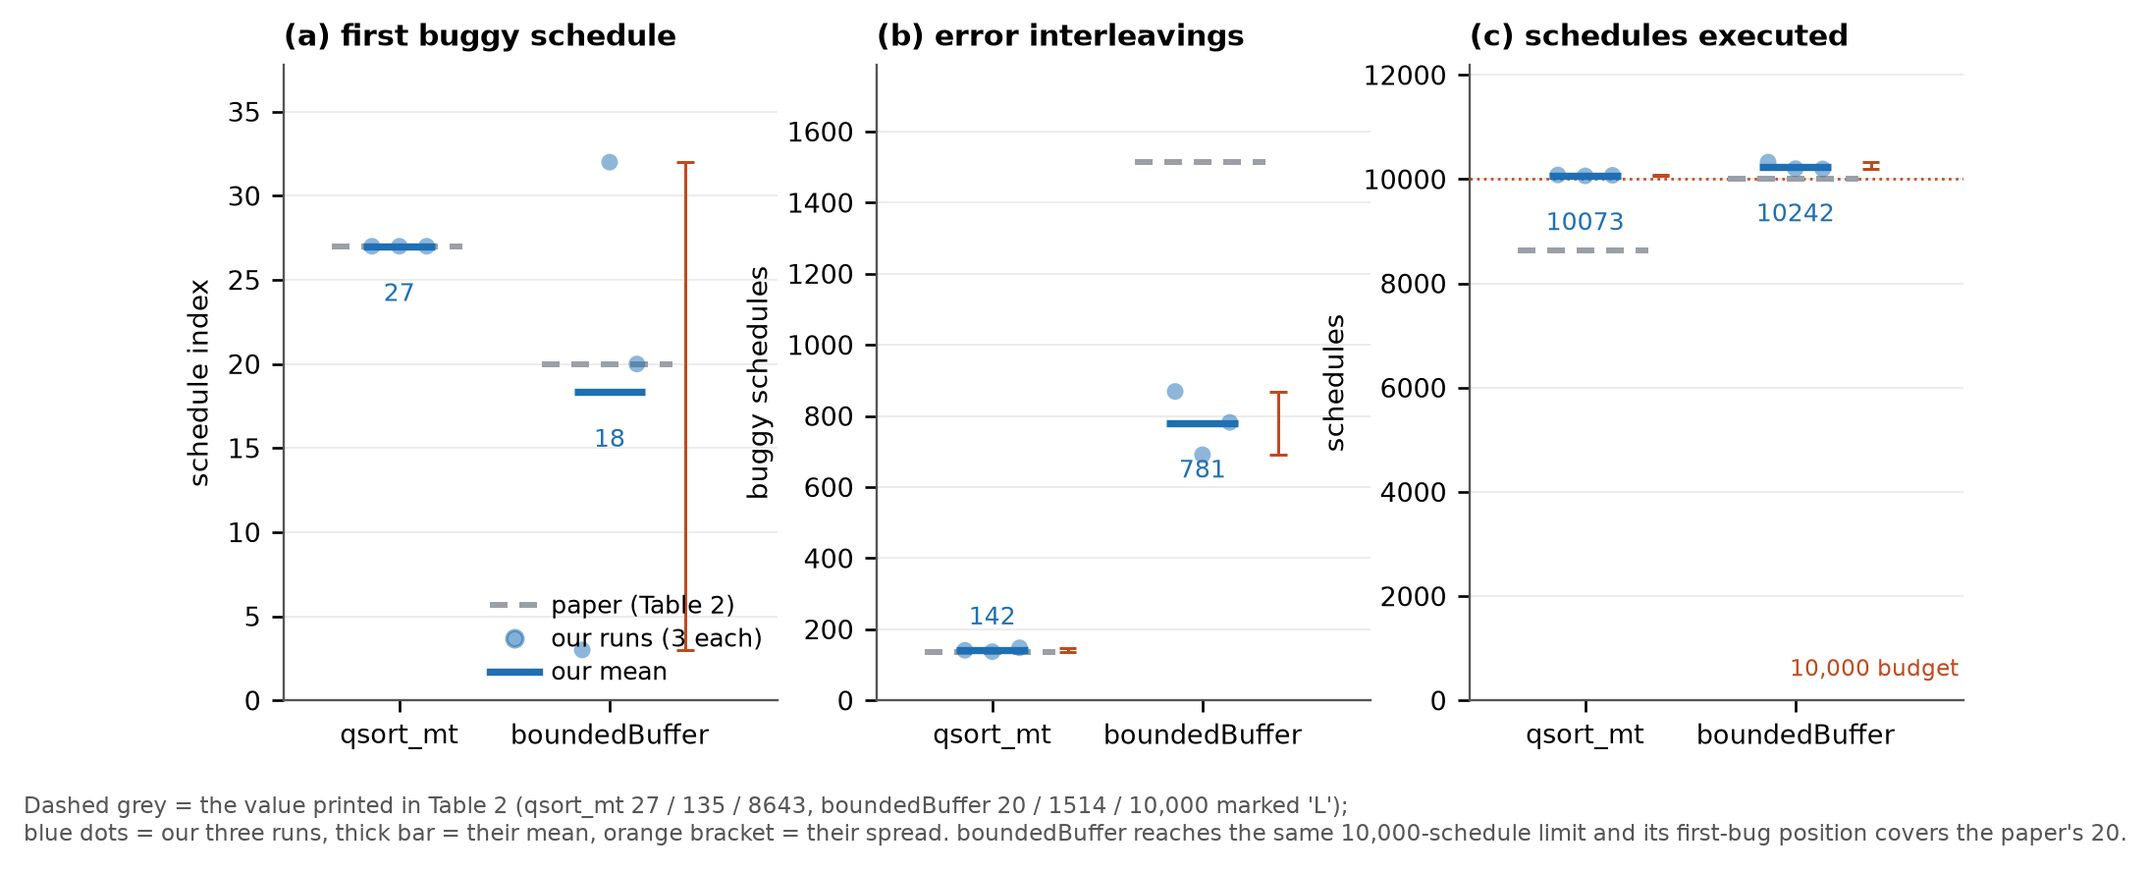
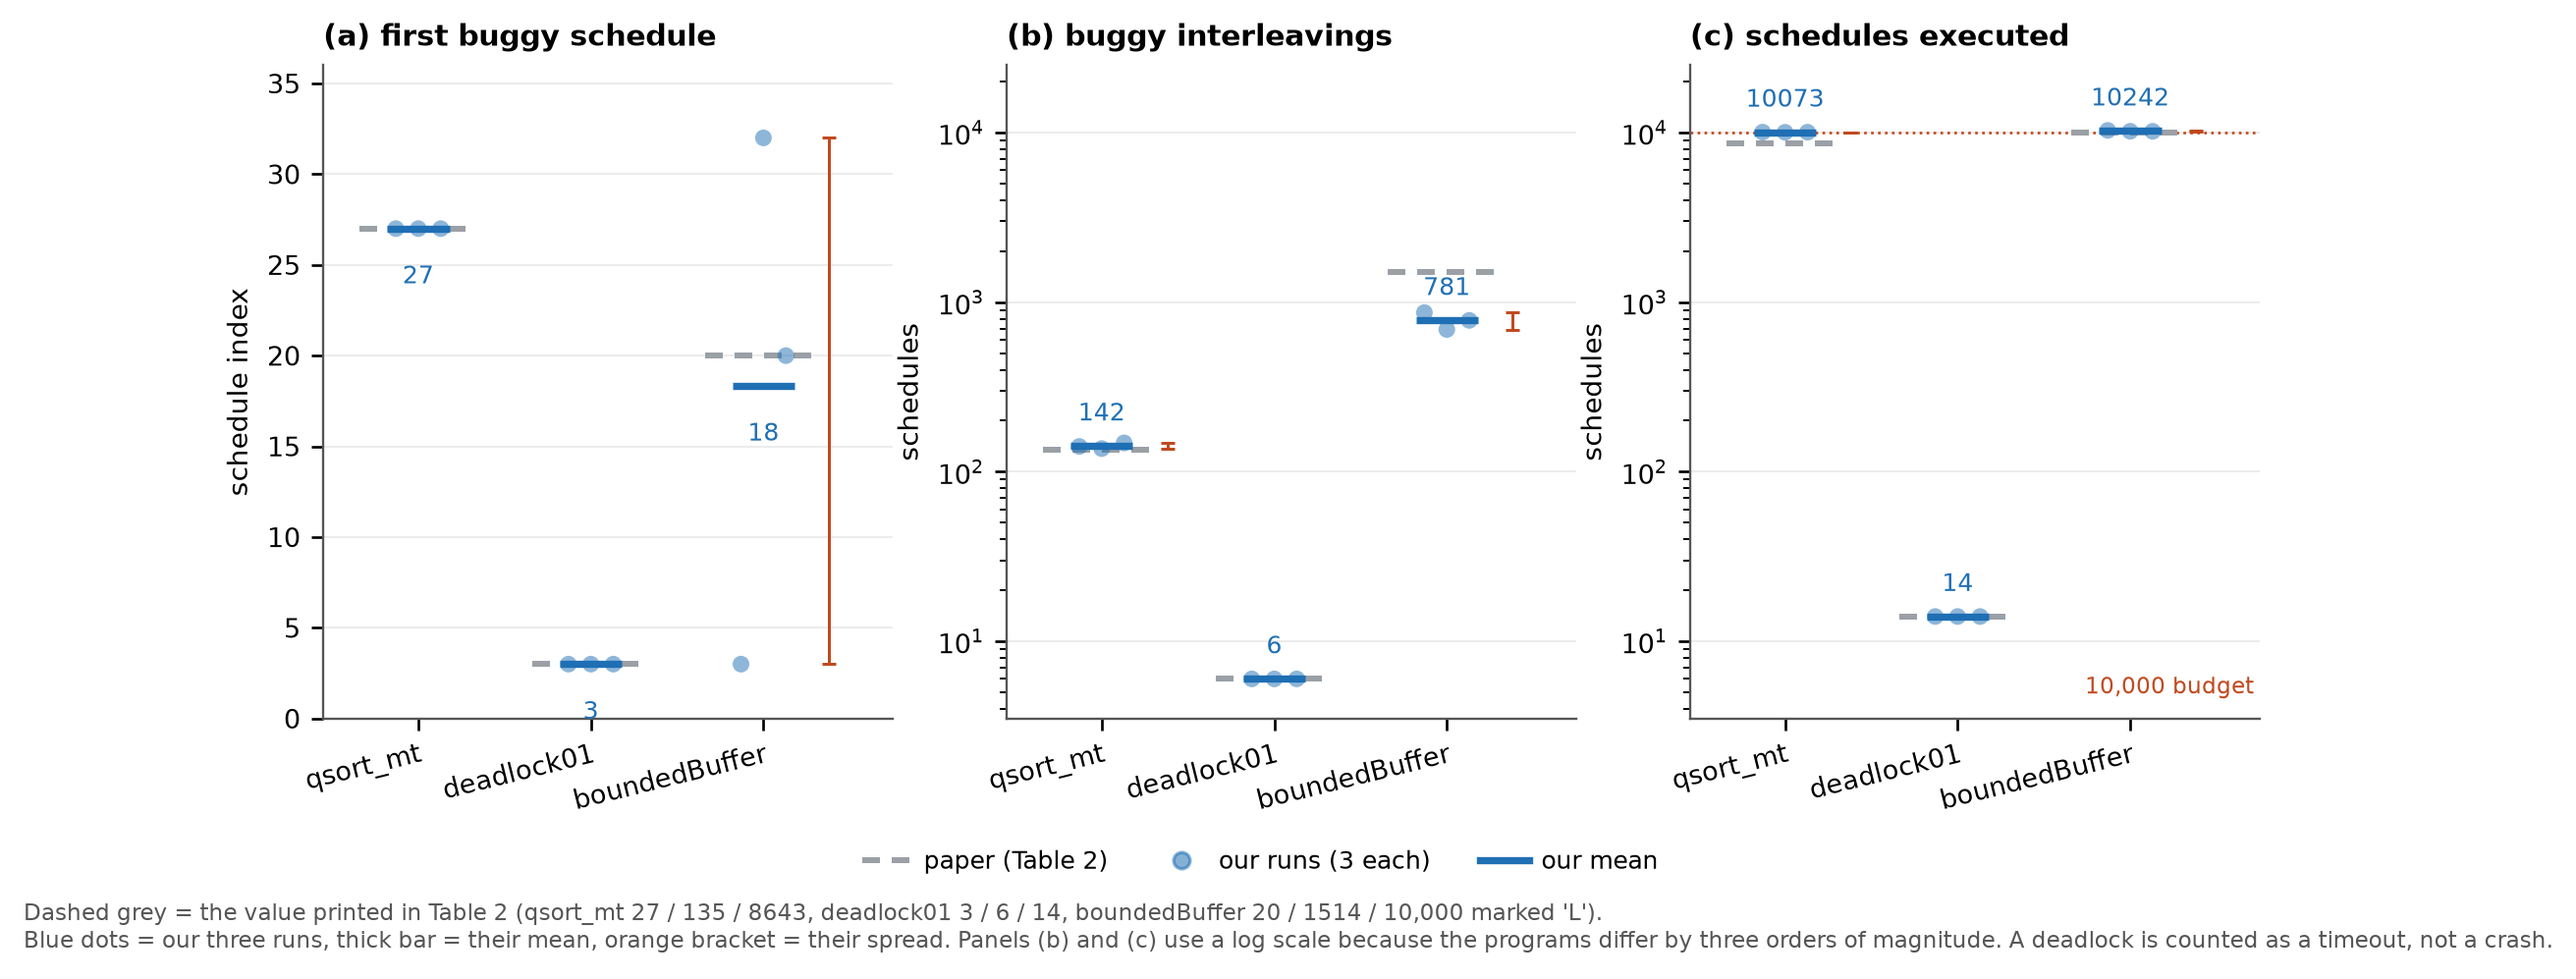
1240007426 田一麟 deadlock01部分readme和数据修改

diff --git a/sctinspect.md b/sctinspect.md
@@ -1,24 +1,34 @@
-Claim 3 — Period finds the assertion bugs in the SCTBench Inspect programs (Table 2)
+Claim 3 — Period detects the bugs in a sample of SCTBench programs (Table 2)
 
 Table 2 in the original paper: ![alt text](logs/claim2log/table2.png)
 
-Verdict: supported for Inspect.qsort_mt, partially supported for
+Verdict: supported for Inspect.qsort_mt and CS.deadlock01, partially supported for
 Inspect.boundedBuffer.
 
-Setup. Both programs come from the SCTBench group `Inspect` shipped inside the
-image (`evaluation/Inspect_benchmarks/`). We used the paper's setting for this
-benchmark, `-d 3`, with the 10,000-schedule budget (`-f 10000`), three runs per
-program, in the same container and on the same 8 vCPU / 16 GB testbed as the CVE
-experiment.
+Setup. Three programs taken from two families of the SCTBench set shipped inside
+the image: `Inspect_benchmarks/` (qsort_mt, boundedBuffer) and `CS/` (deadlock01).
+We used the paper's setting for this benchmark, `-d 3`, with the 10,000-schedule
+budget (`-f 10000`), three runs per program, in the same container and on the same
+8 vCPU / 16 GB testbed as the CVE experiment. Deadlocks are reported by PERIOD as
+timeouts rather than crashes, so for `deadlock01` the "buggy schedules" column is
+the number of timeout interleavings.
 
 | Program | Paper: first | Paper: #sched | Paper: #buggy | Ours: first | Ours: #sched | Ours: #buggy |
 |---|---|---|---|---|---|---|
 | Inspect.qsort_mt | 27 | 8643 | 135 | 27 / 27 / 27 | 10081 / 10064 / 10075 | 141 / 137 / 148 |
 | Inspect.boundedBuffer | 20 | 10,000 (L) | 1514 | 3 / 32 / 20 | 10327 / 10202 / 10197 | 869 / 691 / 782 |
+| CS.deadlock01 | 3 | 14 | 6 | 3 / 3 / 3 | 14 / 14 / 14 | 6 / 6 / 6 |
 
 Quantified gap.
 
 ![alt text](logs/claim2log/sctinspect_compare.png)
+
+deadlock01 is reproduced exactly. The program has two threads and three key
+points each, so the whole schedule space is 14 interleavings; all three runs walk
+the same 14 schedules in the same order, time out on the same six of them, and
+report their first deadlock on schedule 3. The three transcripts differ only in
+the timing values and the output-directory name; each run takes about 30 seconds,
+almost all of it the six 5-second timeouts.
 
 qsort_mt reproduces the paper's detection point exactly: in all three runs the
 first `[Error Found]` line appears on schedule 27, which is the number printed in
@@ -26,7 +36,7 @@ Table 2, and the run ends after roughly 10,000 schedules because it reaches our
 budget rather than exhausting the space (paper: 8643). The number of buggy
 interleavings is 142 on average against 135, a 5% difference.
 
-boundedBuffer is the noisier of the two. Its first-bug position moves between 3
+boundedBuffer is the noisiest of the three. Its first-bug position moves between 3
 and 32 across three runs and covers the paper's 20, with one run hitting 20
 exactly. The schedule count reaches the same 10,000 limit the paper marks with
 `L`. The buggy-interleaving count, however, is 781 on average against 1514, about
@@ -37,28 +47,31 @@ This program is a bounded buffer whose assertion fires when producer and consume
 interleave in a particular order, so how many of the explored schedules actually
 crash depends on the order in which the same 10,000 schedules are enumerated, and
 that order is not stable across runs on a machine with fewer cores than the one
-used in the paper (8 vCPU here, 12 cores / 24 threads there). qsort_mt, which
-fails only through a narrow verification path, is far less sensitive: all three
-runs give the same first-bug position and counts within 8%.
+used in the paper (8 vCPU here, 12 cores / 24 threads there). The other two
+programs are far less sensitive: deadlock01 is small enough to be exhausted
+deterministically, and qsort_mt fails only through a narrow verification path, so
+all three of its runs give the same first-bug position and counts within 8%.
 
 Note also that one earlier boundedBuffer attempt aborted during PERIOD's dry run
 (the assertion fired under the default schedule, so the tool could not collect the
 thread and key-point information) and was excluded; the harness retried
 automatically. This is the same failure mode we saw once on CVE-2017-6346.
 
-Files. The six run logs and the two build logs are in
+Files. The nine run logs and the two build logs are in
 `logs/claim2log/period-logs-sct/`:
 
-- `qsort_mt_d3_run1..3.log`, `boundedBuffer_d3_run1..3.log`
+- `qsort_mt_d3_run1..3.log`, `boundedBuffer_d3_run1..3.log`,
+  `deadlock01_d3_run1..3.log`
 - `batch_qsort.log`, `batch_boundedBuffer.log`
 
-Limitations. Two of the 36 SCTBench programs are covered here, both from the
-`Inspect` group; the remaining families (CB, CS, Chess, RADBench, SafeStack,
-Splash2) are not attempted. We ran three repetitions per program where the paper
-uses ten, and the testbed has fewer cores than the paper's workstation.
+Limitations. Three of the 36 SCTBench programs are covered here, from two of the
+seven families (`Inspect` and `CS`); CB, Chess, RADBench, SafeStack and Splash2
+are not attempted. We ran three repetitions per program where the paper uses ten,
+and the testbed has fewer cores than the paper's workstation.
 
-Runtime. On our testbed one qsort_mt run takes about 6 minutes and one
-boundedBuffer run about 7 minutes (boundedBuffer carries a longer per-schedule
-cost because the assertion has to be reached inside the buffer logic). Including
-the aborted dry-run attempt and the rebuilds, producing three runs of each
-program took 46 minutes in total.
+Runtime. One qsort_mt run takes about 6 minutes and one boundedBuffer run about 7
+minutes (boundedBuffer carries a longer per-schedule cost because the assertion
+has to be reached inside the buffer logic); one deadlock01 run takes about 30
+seconds, of which roughly 30 are the six 5-second timeouts. Including the aborted
+dry-run attempt and the rebuilds, producing three runs of each program took about
+50 minutes in total.
